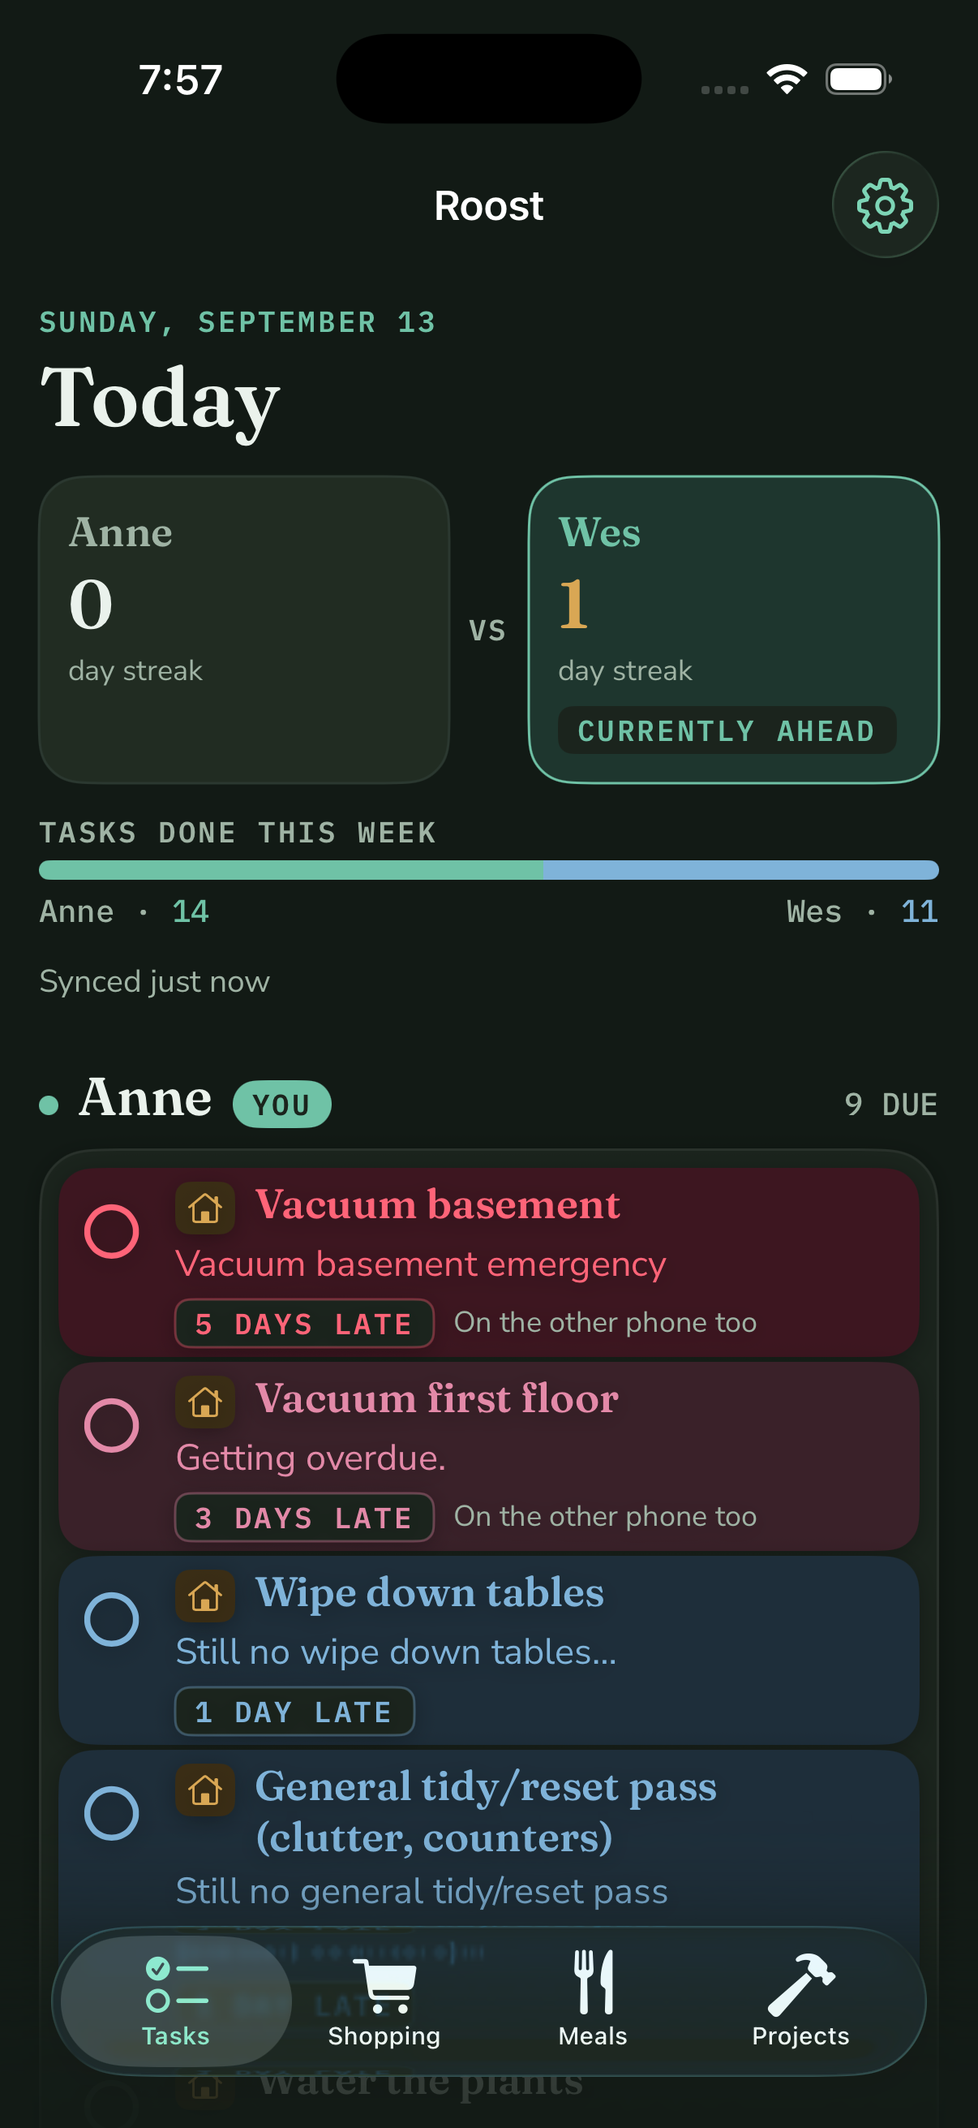
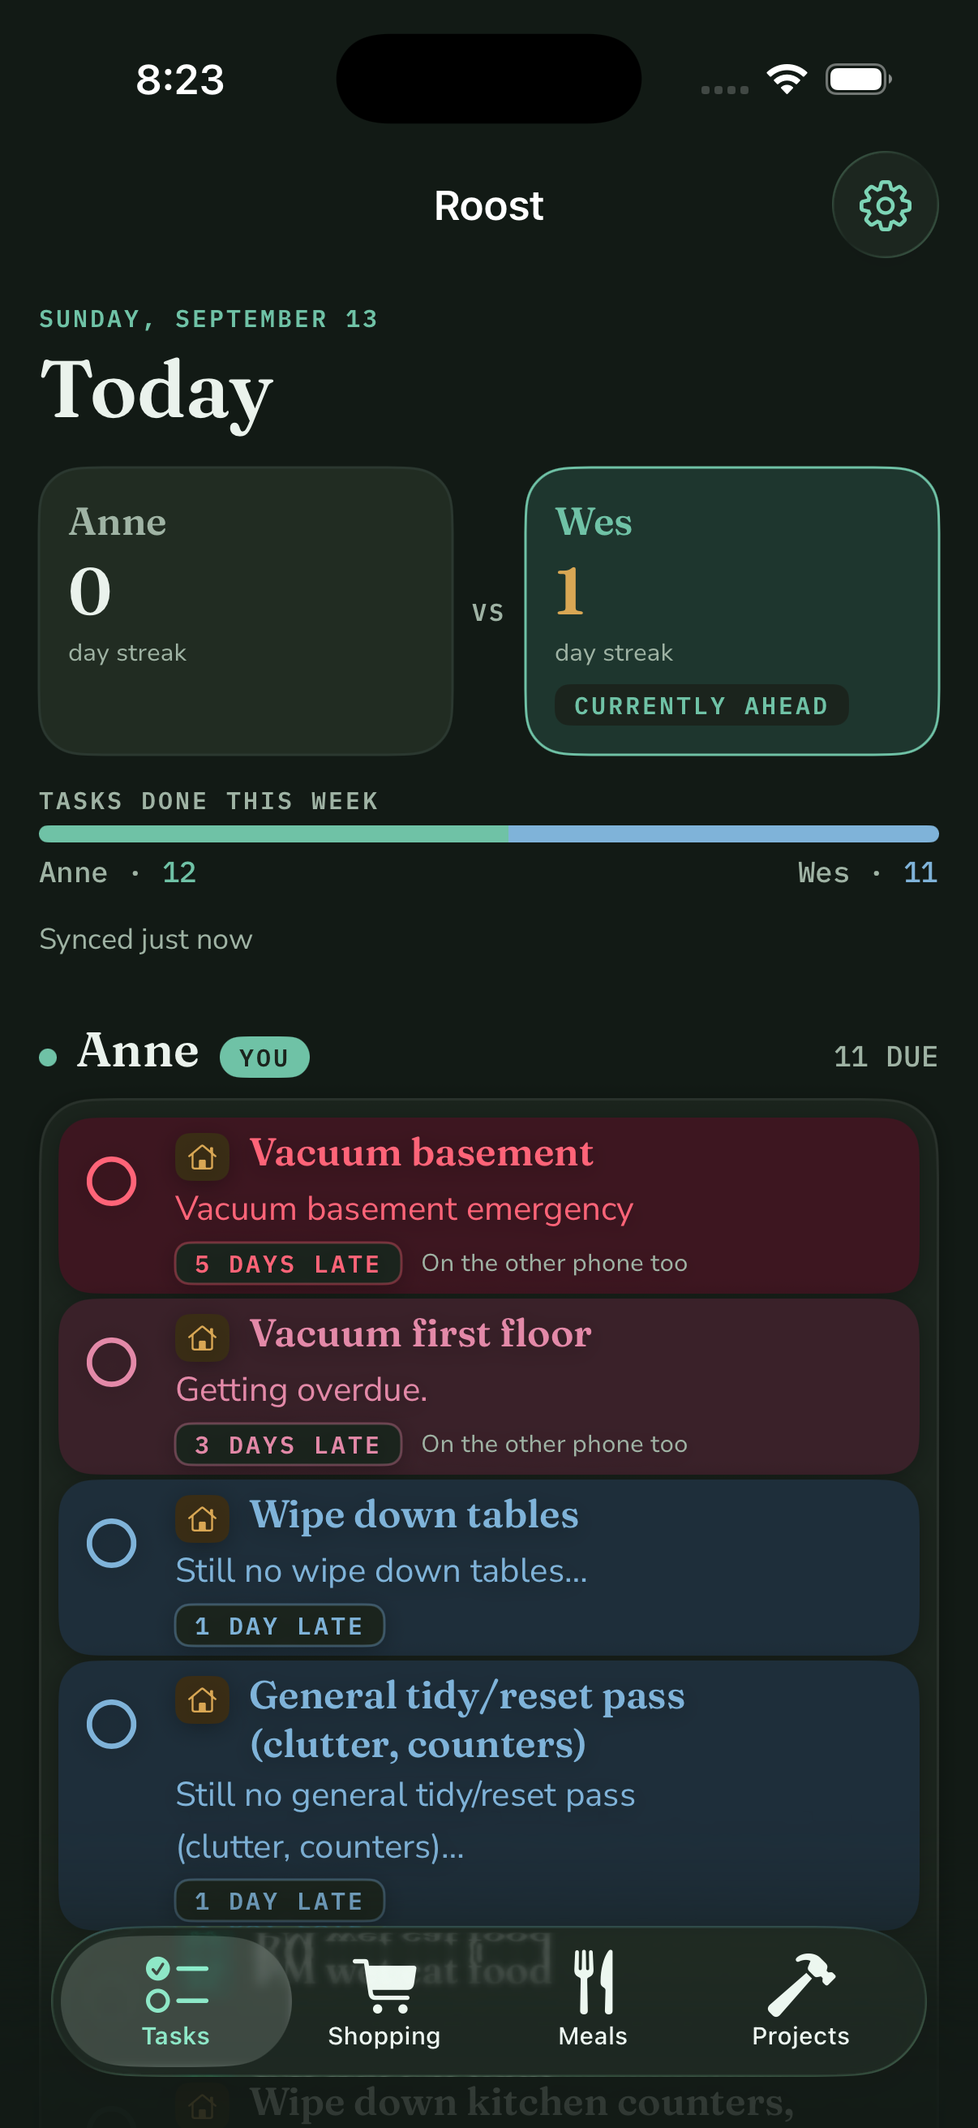
D-2: run the card loudest first, not just alert-to-the-top
Looking at the merged build in the simulator, Anne's card read 5 days late,
due today, 3 days late, 1 day late: "PM wet cat food" sat between two overdue
rows because the planner sorts cat care ahead of everything, and only the
alert row had been lifted out of that order. A ladder that is not monotonic
undermines the whole point of the colour — you have to read the chips to know
which row is worse.

TodayBoard.ordered now sorts the due rows by escalation stage descending —
alert, pointed, nudge, due today — keeping the planner's order (cat care first,
then most days late) as the tiebreak inside a stage. That is the order Kitchen
mode already draws its overdue cards in, so the two screens agree, and going
down a card the colour only ever gets calmer.

Screenshots retaken from this build; docs/tasks-ax.png is now the top of the
screen at the largest accessibility size, from the same session as the light
and dark pair, so all three show the same data.

Also: Person.design arrived on main in Onboarding/OnboardingPage.swift, so the
copy in Tasks/TaskStyle.swift is gone and a comment points at the survivor. The
gear menu's Pairing item is main's Settings item, and the unpaired line under
the header points there instead — that is where "Paired as" lives now.

diff --git a/Roost/Tests/TodayBoardTests.swift b/Roost/Tests/TodayBoardTests.swift
@@ -83,6 +83,17 @@ final class TodayBoardTests: XCTestCase {
         XCTAssertFalse(ordered.dropFirst(2).contains { !$0.isDone && $0.stage == .alert })
     }
 
+    /// The whole point of the order: going down the card, the colour only ever gets calmer. A row that is
+    /// merely due today never sits between two overdue ones, whatever the planner's own preference.
+    func testTheDueRowsRunLoudestFirst() {
+        let ordered = TodayBoard.ordered(plan().rows(for: .anne)).filter { !$0.isDone }
+        let stages = ordered.map(\.stage)
+
+        XCTAssertEqual(stages, stages.sorted(by: >), "\(stages)")
+        XCTAssertEqual(stages.first, .alert)
+        XCTAssertEqual(stages.last, .dueToday)
+    }
+
     func testDoneRowsSinkToTheBottom() throws {
         let ordered = TodayBoard.ordered(plan().rows(for: .anne))
         let firstDone = ordered.firstIndex(where: \.isDone)
@@ -90,10 +101,18 @@ final class TodayBoardTests: XCTestCase {
         XCTAssertTrue(try ordered[XCTUnwrap(firstDone?...)].allSatisfy(\.isDone))
     }
 
-    func testEverythingElseKeepsThePlannersOrder() {
+    /// Inside one stage nothing is re-shuffled: the planner's cat-care-first, most-days-late-next order
+    /// still decides, so two rows that are equally late keep the order the rest of the app gives them.
+    func testWithinOneStageThePlannersOrderStands() {
         let planned = plan().rows(for: .anne)
-        let quiet = { (rows: [TodayRow]) in rows.filter { !$0.isDone && $0.stage != .alert }.map(\.chore.id) }
-        XCTAssertEqual(quiet(TodayBoard.ordered(planned)), quiet(planned))
+        let ordered = TodayBoard.ordered(planned)
+
+        for stage in EscalationStage.allCases {
+            let sameStage = { (rows: [TodayRow]) in
+                rows.filter { !$0.isDone && $0.stage == stage }.map(\.chore.id)
+            }
+            XCTAssertEqual(sameStage(ordered), sameStage(planned), "\(stage)")
+        }
     }
 
     func testOrderLosesNothing() {
@@ -189,7 +208,9 @@ final class TodayBoardTests: XCTestCase {
 
     func testUnpairedPointsAtTheGearMenu() {
         let notice = TodayBoard.notice(isPaired: false, isSyncing: false, outcome: nil, lastSyncAt: nil, now: Date())
-        XCTAssertEqual(notice, TodayBoard.Notice(tone: .notice, text: "Not paired yet · gear menu → Pairing"))
+        XCTAssertEqual(notice, TodayBoard.Notice(tone: .notice, text: Strings.Tasks.notPaired))
+        XCTAssertTrue(Strings.Tasks.notPaired.contains(Strings.Settings.title),
+                      "the line has to name the gear-menu item that actually exists")
 
         let unpaired = TodayBoard.notice(isPaired: true, isSyncing: false, outcome: .unpaired,
                                          lastSyncAt: Date(), now: Date())

diff --git a/Roost/Sources/Tasks/TodayBoard.swift b/Roost/Sources/Tasks/TodayBoard.swift
@@ -11,15 +11,23 @@ enum TodayBoard {
 
     /// One person's rows in the order the card draws them:
     ///
-    /// 1. **Alert stage first** — five days late is the loudest thing on the screen, so it sits at the
-    ///    top of the card where it cannot be scrolled past.
-    /// 2. Then the planner's order for everything else still due: cat care first, then most days late.
-    /// 3. Then what was checked off today, so a finished row sinks under the work that is left but is
+    /// 1. **By escalation stage, loudest first** — alert (5+ days), then pointed, then nudge, then what
+    ///    is merely due today. The colour going down the card only ever gets calmer, so the state of
+    ///    the list is legible without reading a word of it, and the five-day row cannot be scrolled
+    ///    past. Within one stage the planner's order stands: cat care first, then most days late.
+    /// 2. Then what was checked off today, so a finished row sinks under the work that is left but is
     ///    still there to un-check.
+    ///
+    /// This is the order Kitchen mode already uses for its overdue cards, so the two screens agree.
     static func ordered(_ rows: [TodayRow]) -> [TodayRow] {
-        rows.filter { !$0.isDone && $0.stage == .alert }
-            + rows.filter { !$0.isDone && $0.stage != .alert }
-            + rows.filter(\.isDone)
+        let due = rows.filter { !$0.isDone }
+        // enumerated(), so rows at the same stage keep the order the planner put them in.
+        let byStage = due.enumerated().sorted { left, right in
+            left.element.stage == right.element.stage
+                ? left.offset < right.offset
+                : left.element.stage > right.element.stage
+        }
+        return byStage.map(\.element) + rows.filter(\.isDone)
     }
 
     // MARK: - Week bar

diff --git a/Roost/Sources/Tasks/TaskStyle.swift b/Roost/Sources/Tasks/TaskStyle.swift
@@ -36,12 +36,6 @@ extension EscalationStage {
     }
 }
 
-extension Person {
-    /// The design system's person, so view code asks for a role rather than picking a colour.
-    var design: RoostPerson {
-        switch self {
-        case .anne: .anne
-        case .wes: .wes
-        }
-    }
-}
+// `Person.design` — the RoostPerson a Person maps to, which the column header's dot and the week bar's two
+// halves both read — lives in `Onboarding/OnboardingPage.swift`, next to `Person.initial`. One definition,
+// wherever it was first needed.

diff --git a/Roost/README.md b/Roost/README.md
@@ -19,11 +19,12 @@ SwiftUI + SwiftData, iOS 18+, offline-first. The phone keeps its own store and s
 | ![Tasks tab in dark mode](docs/tasks-dark.png) | ![Tasks tab at accessibility size 5](docs/tasks-ax.png) |
 
 The three Tasks screenshots are one phone paired as Anne against a local server seeded with a fortnight of
-history, so every escalation stage is on screen at once: 5 days late in the danger role at the top of the card,
-3 days late in the warning role with "On the other phone too", 1 day late in the notice role, then the rows that
-are simply due today. The check-offs in them are real POSTs. `tasks-ax.png` is the same screen at
-`accessibility5` with the header scrolled to: the streak cards stack, the person header stacks name / YOU /
-count, and the week tally goes one line per person.
+history, so the whole escalation ladder is on screen at once: 5 days late in the danger role, 3 days late in the
+warning role, two rows 1 day late in the notice role, then the rows that are simply due today — loudest first,
+so the colour only gets calmer going down the card. Wes's own column, its rows, and the celebration are below
+the fold. `tasks-ax.png` is the same screen at the largest accessibility text size, where the two streak cards
+stack instead of sitting side by side; further down, the person header stacks name / YOU / count and the week
+tally goes one line per person.
 
 The four tab screenshots are a fresh, unpaired simulator install: the streaks are tied at 0 so nobody is tagged as ahead, nothing is overdue yet so no row has a subtitle, and the list rows were typed in through the UI. Unpaired, the phone does not know who it is, so the shopping rows carry no initial; the avatar appears once the server stamps `addedBy` from the token. The Kitchen mode screenshot is the same unpaired simulator later that day with three of Anne's chores already checked off (12 + 16 = 28 of 31 still due) and still nothing overdue, so it shows the calm state.
 
@@ -116,7 +117,7 @@ xcodebuild -project Roost/Roost.xcodeproj -scheme Roost \
   -destination 'platform=iOS Simulator,name=iPhone 17 Pro' test
 ```
 
-96 tests: seed (31 rows, 2 pinned, idempotent, retire/restore, converters), sync (pairing stores person/cursor/token; 401 stores nothing; a queued completion is POSTed once and marked synced; a 400 marks it rejected and it is never retried; offline keeps the queue; a delete replays as DELETE; a delta with `deleted: true` hides the local row; server-sent chores re-seed; overlapping syncs coalesce), the list replay (a local shopping add is POSTed once and marked synced, with `addedBy` taken from the server's reply; a meal add carries its tag and every other field, so a 201 leaves nothing to PATCH; edits made before a create is replayed outlive the server's stale 200 and go out as a PATCH; a project with first steps goes out as one POST and every step comes back synced; a step added to a synced project POSTs to `/projects/:id/subtasks` and its check-off PATCHes only `done`; a bought toggle PATCHes only `bought`, un-buying PATCHes again, and acknowledged edits are not replayed; "made it today" and "next up" ride one PATCH and the old holder is cleared locally without a request; a delete replays as DELETE and a row the server never saw sends nothing; removing a project cascades locally and sends one DELETE), the list failure modes (a 400 create is kept and never retried; a 503 keeps the queue; a rate-limited DELETE stays queued while the pull still runs; a DELETE the server refuses is acknowledged and never retried; a dead connection ends the pass at the first row with the queue intact), the list delta (a delta with `deleted: true` removes the local row without echoing a DELETE; next-up exclusivity is reflected after a delta; a project delta with subtasks lands in both tables and a cascade delta empties them; the cursor advances to the server's value and holds when nothing changed; a pending local edit outlives a delta carrying the server's older copy of the same row), planning (pinned chores land on the right person; cat care sorts first; a completion today shows as a done row and counts in the tally; overdue days map to the escalation stage), the streak header (the higher streak leads; a tie, including 0 vs 0, has no leader; sides come out Anne then Wes with missing values as 0; the tally line reads `Anne · 14   Wes · 11`; it builds from a plan), the escalation copy (no subtitle for due today; nudge names the chore; pointed depends on category; alert capitalizes the chore; every overdue stage has copy for both categories; rows flow through their stage and done rows get nothing), the root tabs (four tabs in order with their SF Symbols; the list headers read like the mockup, singular and plural), notifications (fixture plan yields the expected ids, Chicago fire times and titles; a replan clears the previous set; the other person's chores never appear; badge count; overlapping replans coalesce), pairing (the sixth digit submits and five do not; a 404 clears the boxes, counts a rejection and offers no retry; a 429 and a dead connection keep the code and offer one; a retry after a transport failure pairs; a pasted code with spaces or words around it fills every box and submits once; a short paste waits; deleting a digit clears the message without resubmitting; digits arriving mid-attempt are ignored; every status code maps to one sentence; the device name is trimmed to the server's 60; the stored base URL beats production and junk does not; POST /pair carries the code and the device name and no bearer, and its 404/429/400/403/500 and a dead connection come back typed; DELETE /pair/self carries the bearer and reads the label, and its 403 is `forbidden`; pairing by code stores the token the server minted and a failure stores nothing; unpairing tells the server then forgets the token, a hand-minted device is forgotten locally with a note, an unreachable server still unpairs this phone, and a phone that was never paired sends nothing), and Kitchen mode (overdue rows group by person and sort by stage descending with the right copy; alert-stage rows from both people land in the banner, most days late first; an empty plan and an all-due-today plan are both caught up; a 5-day-overdue litter box for Wes is a "Scoop litter emergency" in the banner; a missing `activeFrom` falls back to today; the synced line).
+117 tests: seed (31 rows, 2 pinned, idempotent, retire/restore, converters), sync (pairing stores person/cursor/token; 401 stores nothing; a queued completion is POSTed once and marked synced; a 400 marks it rejected and it is never retried; offline keeps the queue; a delete replays as DELETE; a delta with `deleted: true` hides the local row; server-sent chores re-seed; overlapping syncs coalesce), the list replay (a local shopping add is POSTed once and marked synced, with `addedBy` taken from the server's reply; a meal add carries its tag and every other field, so a 201 leaves nothing to PATCH; edits made before a create is replayed outlive the server's stale 200 and go out as a PATCH; a project with first steps goes out as one POST and every step comes back synced; a step added to a synced project POSTs to `/projects/:id/subtasks` and its check-off PATCHes only `done`; a bought toggle PATCHes only `bought`, un-buying PATCHes again, and acknowledged edits are not replayed; "made it today" and "next up" ride one PATCH and the old holder is cleared locally without a request; a delete replays as DELETE and a row the server never saw sends nothing; removing a project cascades locally and sends one DELETE), the list failure modes (a 400 create is kept and never retried; a 503 keeps the queue; a rate-limited DELETE stays queued while the pull still runs; a DELETE the server refuses is acknowledged and never retried; a dead connection ends the pass at the first row with the queue intact), the list delta (a delta with `deleted: true` removes the local row without echoing a DELETE; next-up exclusivity is reflected after a delta; a project delta with subtasks lands in both tables and a cascade delta empties them; the cursor advances to the server's value and holds when nothing changed; a pending local edit outlives a delta carrying the server's older copy of the same row), planning (pinned chores land on the right person; cat care sorts first; a completion today shows as a done row and counts in the tally; overdue days map to the escalation stage), the streak header (the higher streak leads; a tie, including 0 vs 0, has no leader; sides come out Anne then Wes with missing values as 0; the tally line reads `Anne · 14   Wes · 11`; it builds from a plan), the escalation copy (no subtitle for due today; nudge names the chore; pointed depends on category; alert capitalizes the chore; every overdue stage has copy for both categories; rows flow through their stage and done rows get nothing), the root tabs (four tabs in order with their SF Symbols; the list headers read like the mockup, singular and plural), notifications (fixture plan yields the expected ids, Chicago fire times and titles; a replan clears the previous set; the other person's chores never appear; badge count; overlapping replans coalesce), pairing (the sixth digit submits and five do not; a 404 clears the boxes, counts a rejection and offers no retry; a 429 and a dead connection keep the code and offer one; a retry after a transport failure pairs; a pasted code with spaces or words around it fills every box and submits once; a short paste waits; deleting a digit clears the message without resubmitting; digits arriving mid-attempt are ignored; every status code maps to one sentence; the device name is trimmed to the server's 60; the stored base URL beats production and junk does not; POST /pair carries the code and the device name and no bearer, and its 404/429/400/403/500 and a dead connection come back typed; DELETE /pair/self carries the bearer and reads the label, and its 403 is `forbidden`; pairing by code stores the token the server minted and a failure stores nothing; unpairing tells the server then forgets the token, a hand-minted device is forgotten locally with a note, an unreachable server still unpairs this phone, and a phone that was never paired sends nothing), the Tasks board (the card runs loudest first and inside one stage keeps the planner's order, done rows sink to the bottom, and nothing is lost or duplicated; the week bar's split, including the empty track before anybody has done anything; every escalation stage maps to its own colour role and soft fill, and only from three days is a row “on the other phone too”; clearing your own column fires the celebration once a day and never for the other person's column, an un-check, or an unpaired phone; and the status line reads unpaired, syncing, offline-with-a-time, synced-just-now and not-synced-yet, with the days-late wording shared with Kitchen mode), and Kitchen mode (overdue rows group by person and sort by stage descending with the right copy; alert-stage rows from both people land in the banner, most days late first; an empty plan and an all-due-today plan are both caught up; a 5-day-overdue litter box for Wes is a "Scoop litter emergency" in the banner; a missing `activeFrom` falls back to today; the synced line).
 
 ## Pairing
 
@@ -203,7 +204,7 @@ The three list tabs share one shape (`ListParts.swift`): the tab title in the di
 
 **Streak header.** `StreakHeaderModel` takes the plan's per-person streaks (`RoostCore.Tallies.streak`, so `activeFrom` comes from `SyncState`) and weekly tallies. Each side shows the name, the streak number, and "day streak". The side with the strictly higher streak gets a "CURRENTLY AHEAD" tag and its number in `RoostColor.gold`; a tie tags nobody. Under the block a mono line carries the week's completions: `Anne · 14   Wes · 11`.
 
-**Escalation.** `EscalationStage` picks a `RoostColor.Role`, and everything on the row follows it (`TaskStyle.swift`): due today = `textPrimary` on no fill, 1–2 days = `notice`, 3–4 = `warning`, 5+ = `danger`, each overdue stage on its `…Soft` fill. From 5 days the row sorts to the top of the card (`TodayBoard.ordered`), so the worst thing is the first thing, and a mono "N DAYS LATE" chip carries the count — the state is never colour alone. From 3 days a caption says "On the other phone too", because that is when it stops being a private problem. `EscalationCopy.subtitle` adds a line under the title once a row is overdue: nudge → "Still no <title>…" (title lowercased to read mid-sentence, unless it starts with an acronym like "PM wet cat food"), pointed → "The cat has feelings about this." for cat-care rows and "Getting overdue." for home rows, alert → "<Title> emergency". Due-today rows and done rows show no subtitle.
+**Escalation.** `EscalationStage` picks a `RoostColor.Role`, and everything on the row follows it (`TaskStyle.swift`): due today = `textPrimary` on no fill, 1–2 days = `notice`, 3–4 = `warning`, 5+ = `danger`, each overdue stage on its `…Soft` fill. The card runs loudest first (`TodayBoard.ordered`): alert, then pointed, then nudge, then what is merely due today, with the planner's own order (cat care first, then most days late) deciding inside one stage — the same order Kitchen mode uses, so the two screens agree. Going down a card the colour only gets calmer, the five-day row cannot be scrolled past, and a mono "N DAYS LATE" chip carries the count, so the state is never colour alone. From 3 days a caption says "On the other phone too", because that is when it stops being a private problem. `EscalationCopy.subtitle` adds a line under the title once a row is overdue: nudge → "Still no <title>…" (title lowercased to read mid-sentence, unless it starts with an acronym like "PM wet cat food"), pointed → "The cat has feelings about this." for cat-care rows and "Getting overdue." for home rows, alert → "<Title> emergency". Due-today rows and done rows show no subtitle.
 
 **Check-off.** Checking a row inserts a `CompletionRecord` (UUID id, `completedAt` now, UTC) and kicks a sync; tapping a done row soft-deletes it. The whole row is the button, and the check control holds `RoostSpacing.minTapTarget` (44 pt) on its own inside it. A press scales the row 2% and steps its fill up to `surfaceElevated` on `RoostMotion.quick`; the circle becomes a filled checkmark through `.contentTransition(.symbolEffect(.replace))`; the row itself moves on `RoostTransition.checkOff`; the "N DUE" count and the week's tallies roll with `.contentTransition(.numericText())` on `RoostMotion.standard`; and `RoostHaptic.checkOff` / `.undo` fire on the tap through the `.roostHaptic(_:trigger:)` counters, so a cold launch or a delta arriving from the other phone never buzzes. Every animation goes through `RoostMotion.reduceMotionAware`, which under Reduce Motion is `nil` — no animation, not a faster one.
 
